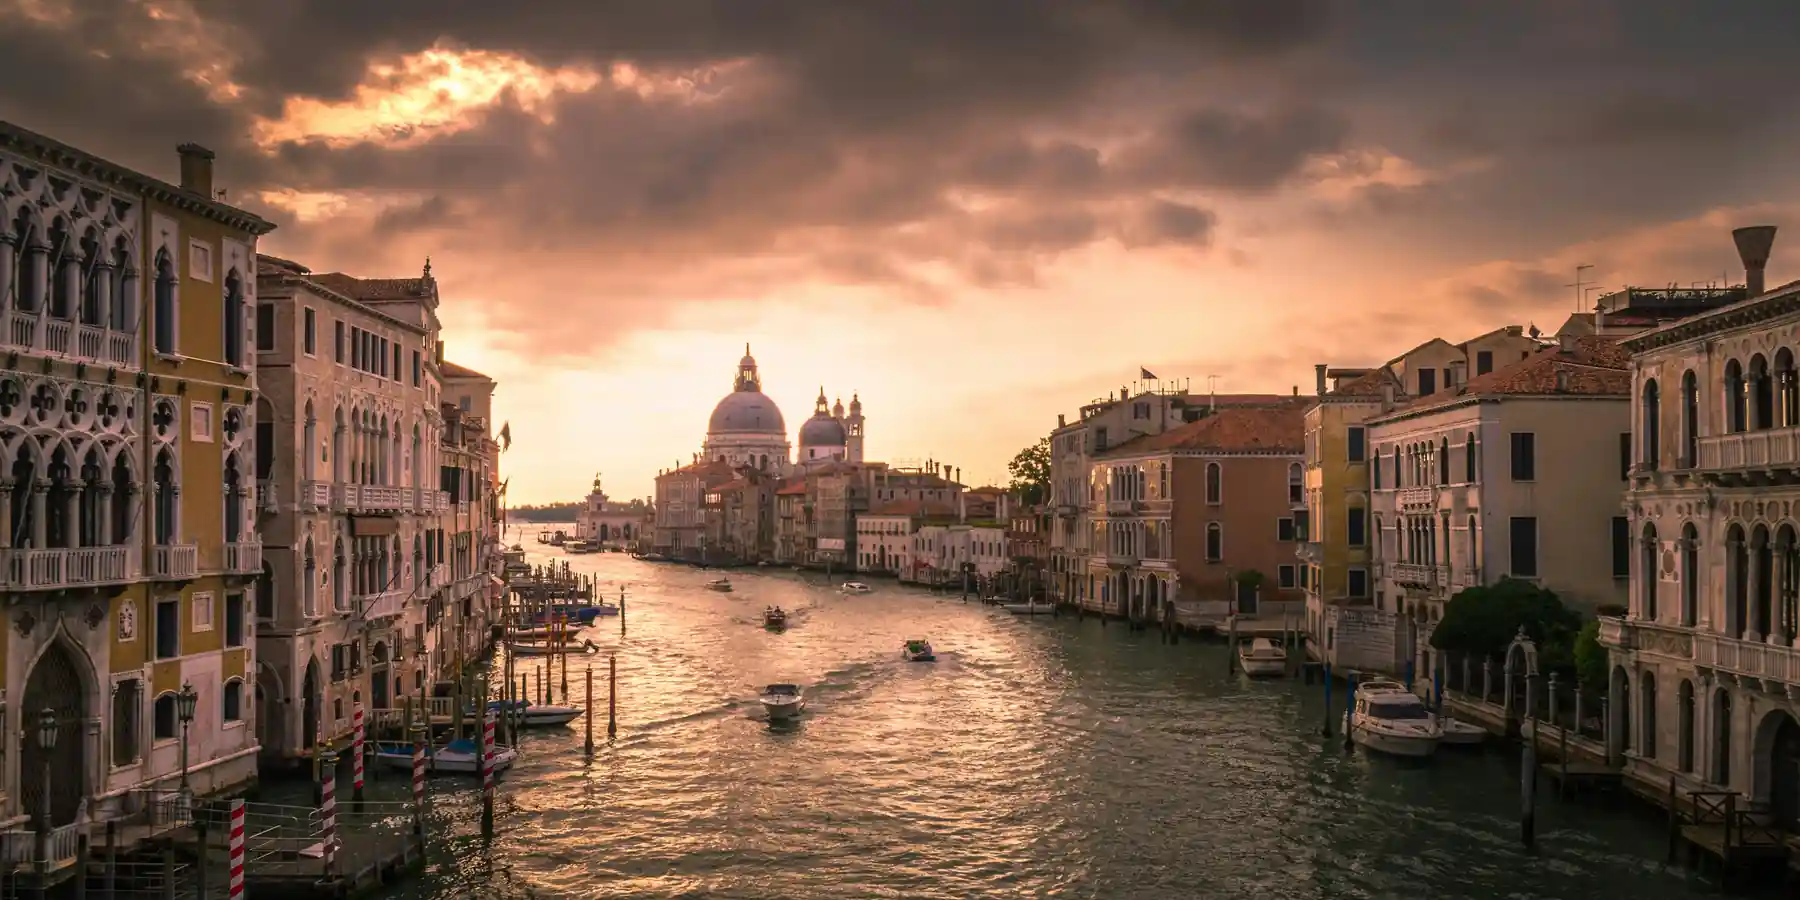
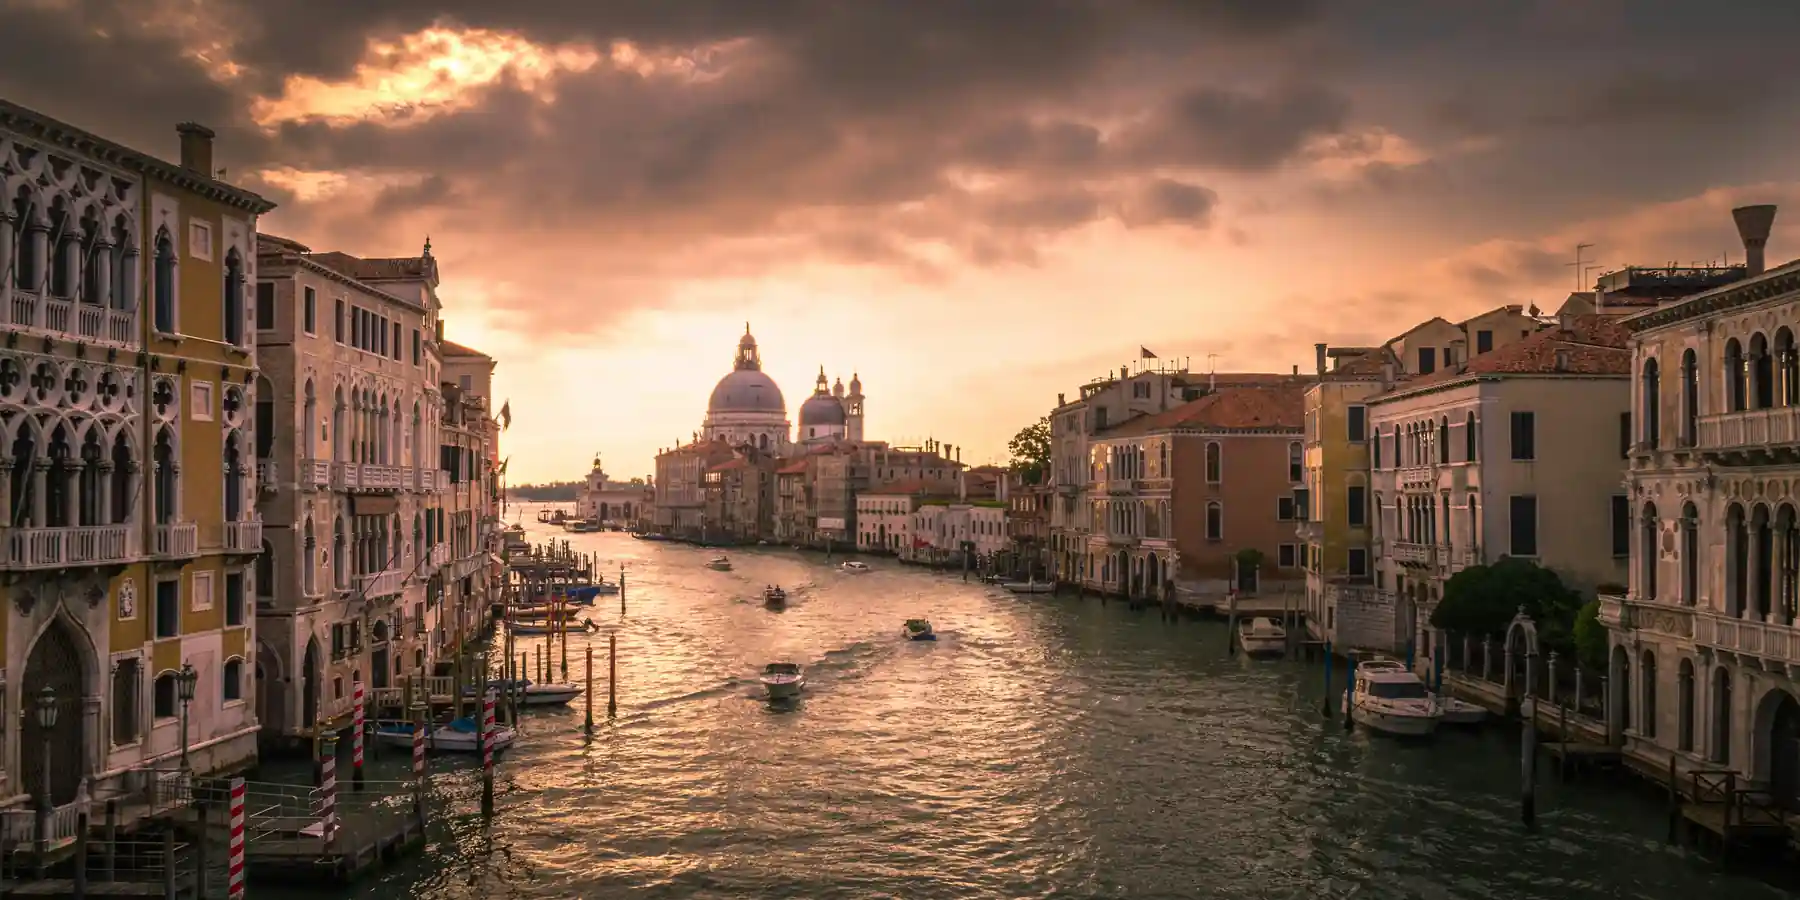
v3.6: image focal point fixes + ring nav
- hero: cy=0.52, object-position center 55% (more canal, less storm sky)
- strip2: cy=0.65, object-position center 60% (gondolier now in frame)
- strip1/3/viaggio: object-position fine-tuned

diff --git a/venezia/index.html b/venezia/index.html
@@ -2,7 +2,7 @@
 <html lang="de" style="cursor:none">
 <head>
 <meta charset="UTF-8">
-<!-- venezia build: 2026-05-11 v3.5 — ring emblem in nav logo -->
+<!-- venezia build: 2026-05-11 v3.6 — image focal point fixes -->
 <meta name="viewport" content="width=device-width,initial-scale=1.0,minimum-scale=1.0,maximum-scale=5.0,viewport-fit=cover">
 <title>La Proposta — Venezia · Toni &amp; Cote</title>
 <meta name="description" content="Ein unvergesslicher Antrag in Venedig. Kuratiert von YH Grand Wedding — Destination Wedding Atelier.">
@@ -496,7 +496,7 @@ footer{background:#040608;padding:64px 56px;text-align:center;border-top:1px sol
 <!-- HERO — cinematic gradient backdrop, no image -->
 <section class="hero">
   <div class="hero-bg">
-    <img src="hero.webp" alt="Canal Grande bei Sonnenuntergang — Venedig im dramatischen Abendlicht" loading="eager" fetchpriority="high">
+    <img src="hero.webp" alt="Canal Grande bei Sonnenuntergang — Venedig im dramatischen Abendlicht" loading="eager" fetchpriority="high" style="object-position:center 55%">
   </div>
   <div class="hero-content">
     <span class="hero-eyebrow">Una città · Un momento · Per sempre</span>
@@ -568,7 +568,7 @@ footer{background:#040608;padding:64px 56px;text-align:center;border-top:1px sol
 
 <!-- STRIP 1: Venice gondola on Grand Canal -->
 <div class="venice-strip">
-  <img src="strip1.webp" alt="Santa Maria della Salute im goldenen Sonnenuntergang vom Canal Grande" loading="lazy">
+  <img src="strip1.webp" alt="Santa Maria della Salute im goldenen Sonnenuntergang vom Canal Grande" loading="lazy" style="object-position:center 52%">
   <div class="venice-strip-overlay"></div>
   <div class="venice-strip-caption">
     <em>Il tramonto sul Canal Grande</em>
@@ -684,7 +684,7 @@ footer{background:#040608;padding:64px 56px;text-align:center;border-top:1px sol
 
 <!-- STRIP 2: Venice at dusk, quiet canal -->
 <div class="venice-strip tall">
-  <img src="strip2.webp" alt="Gondolier auf dem Canal Grande, weiße venezianische Paläste im Hintergrund" loading="lazy">
+  <img src="strip2.webp" alt="Gondolier auf dem Canal Grande, weiße venezianische Paläste im Hintergrund" loading="lazy" style="object-position:center 60%">
   <div class="venice-strip-overlay"></div>
   <div class="venice-strip-caption">
     <em>La gondola — l'anima di Venezia</em>
@@ -1402,7 +1402,7 @@ footer{background:#040608;padding:64px 56px;text-align:center;border-top:1px sol
 
 <!-- STRIP 3: Aerial Venice panorama -->
 <div class="venice-strip">
-  <img src="strip3.webp" alt="Venezia dall'alto — Luftaufnahme von Venedig mit der Lagune" loading="lazy">
+  <img src="strip3.webp" alt="Venezia dall'alto — Luftaufnahme von Venedig mit der Lagune" loading="lazy" style="object-position:center 45%">
   <div class="venice-strip-overlay"></div>
   <div class="venice-strip-caption">
     <em>Venezia dall'alto</em>
@@ -1415,7 +1415,7 @@ footer{background:#040608;padding:64px 56px;text-align:center;border-top:1px sol
   <div class="section-inner">
     <!-- Viaggio cinematic hero: wooden boat on Canal Grande at golden hour -->
   <div class="viaggio-hero reveal">
-    <img src="viaggio.webp" alt="Holzboot auf dem Canal Grande in Venedig — goldene Stunde, Santa Maria della Salute im Hintergrund" loading="lazy">
+    <img src="viaggio.webp" alt="Holzboot auf dem Canal Grande in Venedig — goldene Stunde, Santa Maria della Salute im Hintergrund" loading="lazy" style="object-position:center 50%">
     <div class="viaggio-hero-overlay"></div>
     <div class="viaggio-hero-caption">
       <span>L'arrivo</span>